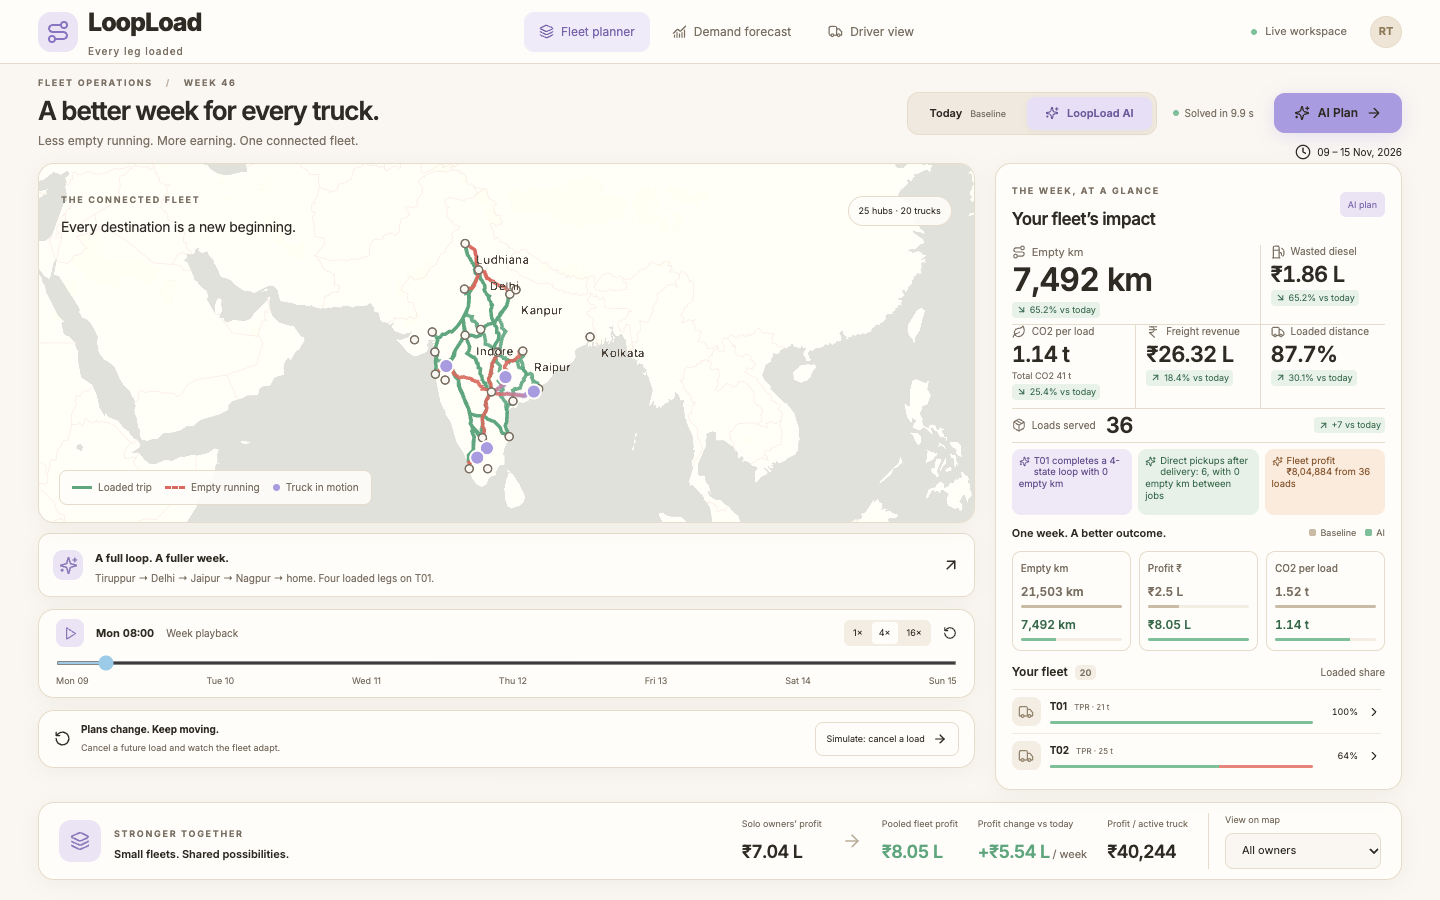
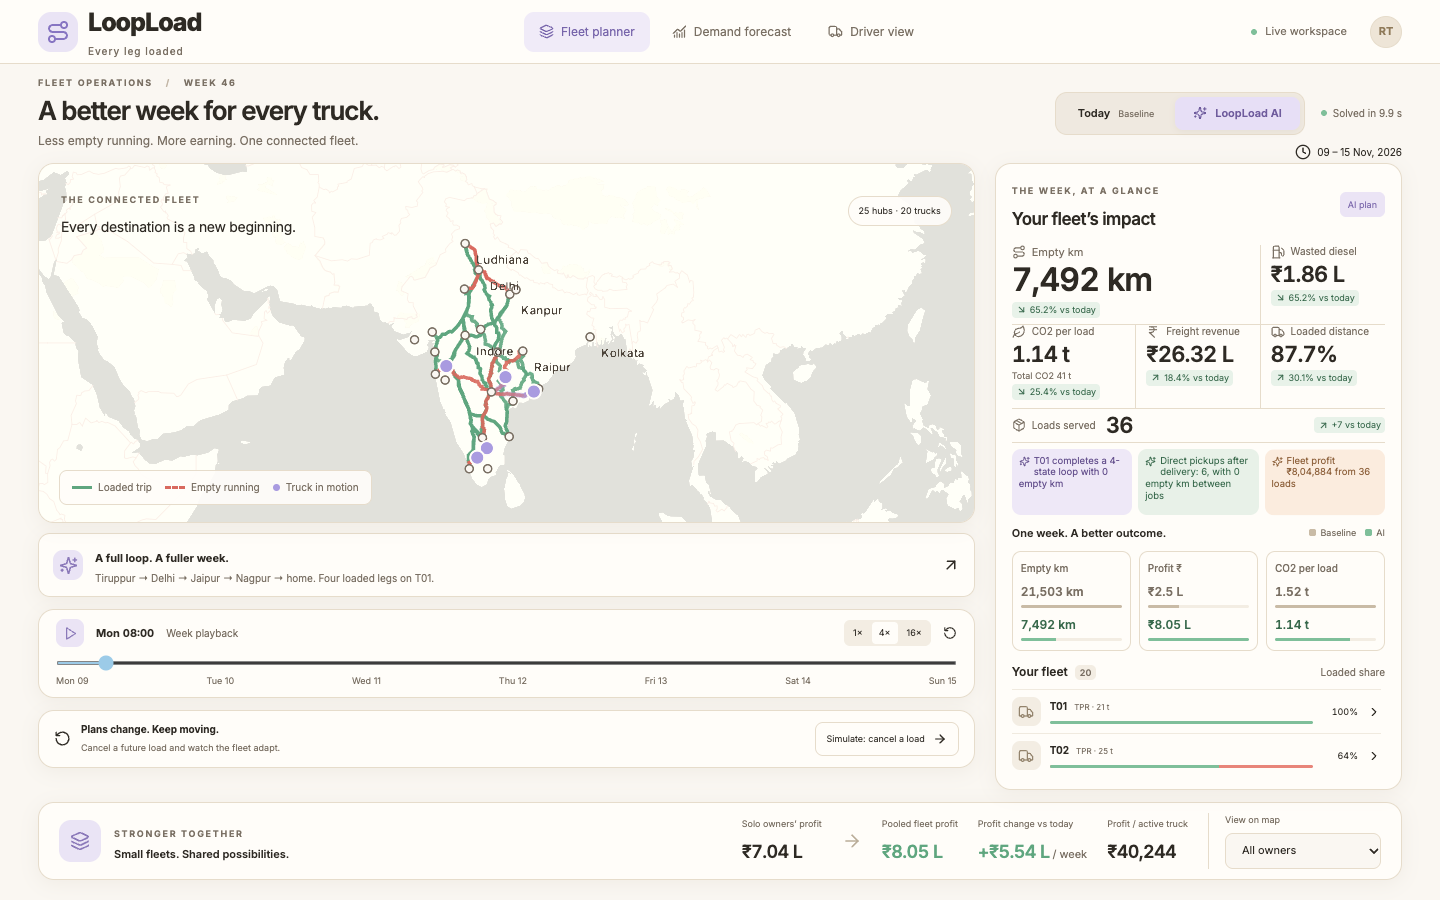
Remove the redundant header AI Plan button; LoopLoad AI toggle now carries data-testid=ai-plan-button
The toggle and the separate button both called switchPlan('ai'); keep
just the toggle. Updated the tests and record_demo.py's selector
fallback that referenced the old separate control/button text.

Changed region(s): [[0.7188, 0.0933, 0.9688, 0.1556], [0.6562, 0.1244, 0.6875, 0.1556]]

diff --git a/frontend/tests/demo.spec.ts b/frontend/tests/demo.spec.ts
@@ -17,7 +17,7 @@ test("judge demo: plan, inspect compliance, cancel a load, forecast and Kannada 
   await page.getByRole("button", { name: "Pause playback" }).click();
   await page.getByLabel("Week time", { exact: true }).fill("0");
   await expect(page.locator(".mode-badge")).toHaveText("Baseline");
-  await page.getByRole("button", { name: "AI Plan", exact: true }).click();
+  await page.getByTestId("ai-plan-button").click();
   await expect(page.locator(".mode-badge")).toHaveText("AI plan");
   await expect(page.locator(".metric").first().locator("strong")).toHaveText(
     `${aiFixture.metrics.empty_km.toLocaleString("en-IN", { maximumFractionDigits: 0 })} km`,
@@ -112,7 +112,7 @@ test("API outage shows an error toast and retains the interactive mock dashboard
   await expect(page.getByRole("status")).toContainText(
     "API unavailable. Showing demo data.",
   );
-  await page.getByRole("button", { name: "AI Plan", exact: true }).click();
+  await page.getByTestId("ai-plan-button").click();
   await expect(page.locator(".mode-badge")).toHaveText("AI plan");
 });
 
@@ -201,7 +201,7 @@ test("real-data edge cases: idle trucks, week overrun and warning-only complianc
   await page.getByRole("button", { name: "Open hero truck" }).click();
   await expect(page.getByRole("dialog")).toContainText("(+1w)");
   await page.keyboard.press("Escape");
-  await page.getByRole("button", { name: "AI Plan", exact: true }).click();
+  await page.getByTestId("ai-plan-button").click();
   await page.locator(".truck-row").filter({ hasText: "T03" }).click();
   await expect(
     page.getByRole("dialog").locator(".compliance.warning"),

diff --git a/frontend/tests/test-ids.spec.ts b/frontend/tests/test-ids.spec.ts
@@ -6,7 +6,6 @@ test("automation IDs identify every requested control and counter", async ({
   for (const id of [
     "ai-plan-button",
     "mode-toggle-baseline",
-    "mode-toggle-ai",
     "solve-time-badge",
     "counter-empty-km",
     "counter-diesel",
@@ -32,7 +31,7 @@ test("automation IDs identify every requested control and counter", async ({
     ).toHaveCount(1);
   await page.getByTestId("timeline-play").click();
   await page.getByTestId("timeline-scrubber").fill("0");
-  await page.getByTestId("mode-toggle-ai").click();
+  await page.getByTestId("ai-plan-button").click();
   await page.getByTestId("truck-row-T01").click();
   await expect(page.getByTestId("truck-drawer")).toBeVisible();
   await expect(page.getByTestId("compliance-badge")).toHaveCount(4);

diff --git a/frontend/src/main.tsx b/frontend/src/main.tsx
@@ -467,7 +467,7 @@ function Dashboard({
             Today <span>Baseline</span>
           </button>
           <button
-            data-testid="mode-toggle-ai"
+            data-testid="ai-plan-button"
             className={mode === "ai" ? "active" : ""}
             onClick={() => switchPlan("ai")}
           >
@@ -479,13 +479,6 @@ function Dashboard({
             <span className="status-dot" />
             Solved in {num(plan.solve_time_s, 1)} s
           </span>
-          <button
-            data-testid="ai-plan-button"
-            className="primary"
-            onClick={() => switchPlan("ai")}
-          >
-            <Sparkles size={16} /> AI Plan <ArrowRight size={16} />
-          </button>
         </div>
       </section>
       <motion.div

diff --git a/frontend/tests/animation.spec.ts b/frontend/tests/animation.spec.ts
@@ -72,7 +72,7 @@ test("900 ms crossfade and number tween preserve panel geometry", async ({
 });
 test("reversing a switch keeps counters continuous", async ({ page }) => {
   await page
-    .getByTestId("mode-toggle-ai")
+    .getByTestId("ai-plan-button")
     .evaluate((el: HTMLElement) => el.click());
   await page.clock.runFor(250);
   const before = await read(page);

diff --git a/scripts/record_demo.py b/scripts/record_demo.py
@@ -15,7 +15,7 @@ VIEWPORT = {'width': 1440, 'height': 900}
 TARGETS = {
     'map': (None, ('region', r'(freight|india|trip).*map|map'), None),
     'baseline': (None, ('button', r'^baseline$'), r'^baseline$'),
-    'ai': ('ai-plan-button', ('button', r'^AI Plan$'), r'^AI Plan$'),
+    'ai': ('ai-plan-button', ('button', r'LoopLoad AI'), r'LoopLoad AI'),
     'truck': ('truck-row-T01', ('button', r'\bT01\b'), r'\bT01\b'),
     'drawer': ('truck-drawer', ('dialog', r'T01|truck'), None),
     'close': ('truck-drawer-close', ('button', r'close( truck)?( drawer)?|dismiss'), r'^close$'),
